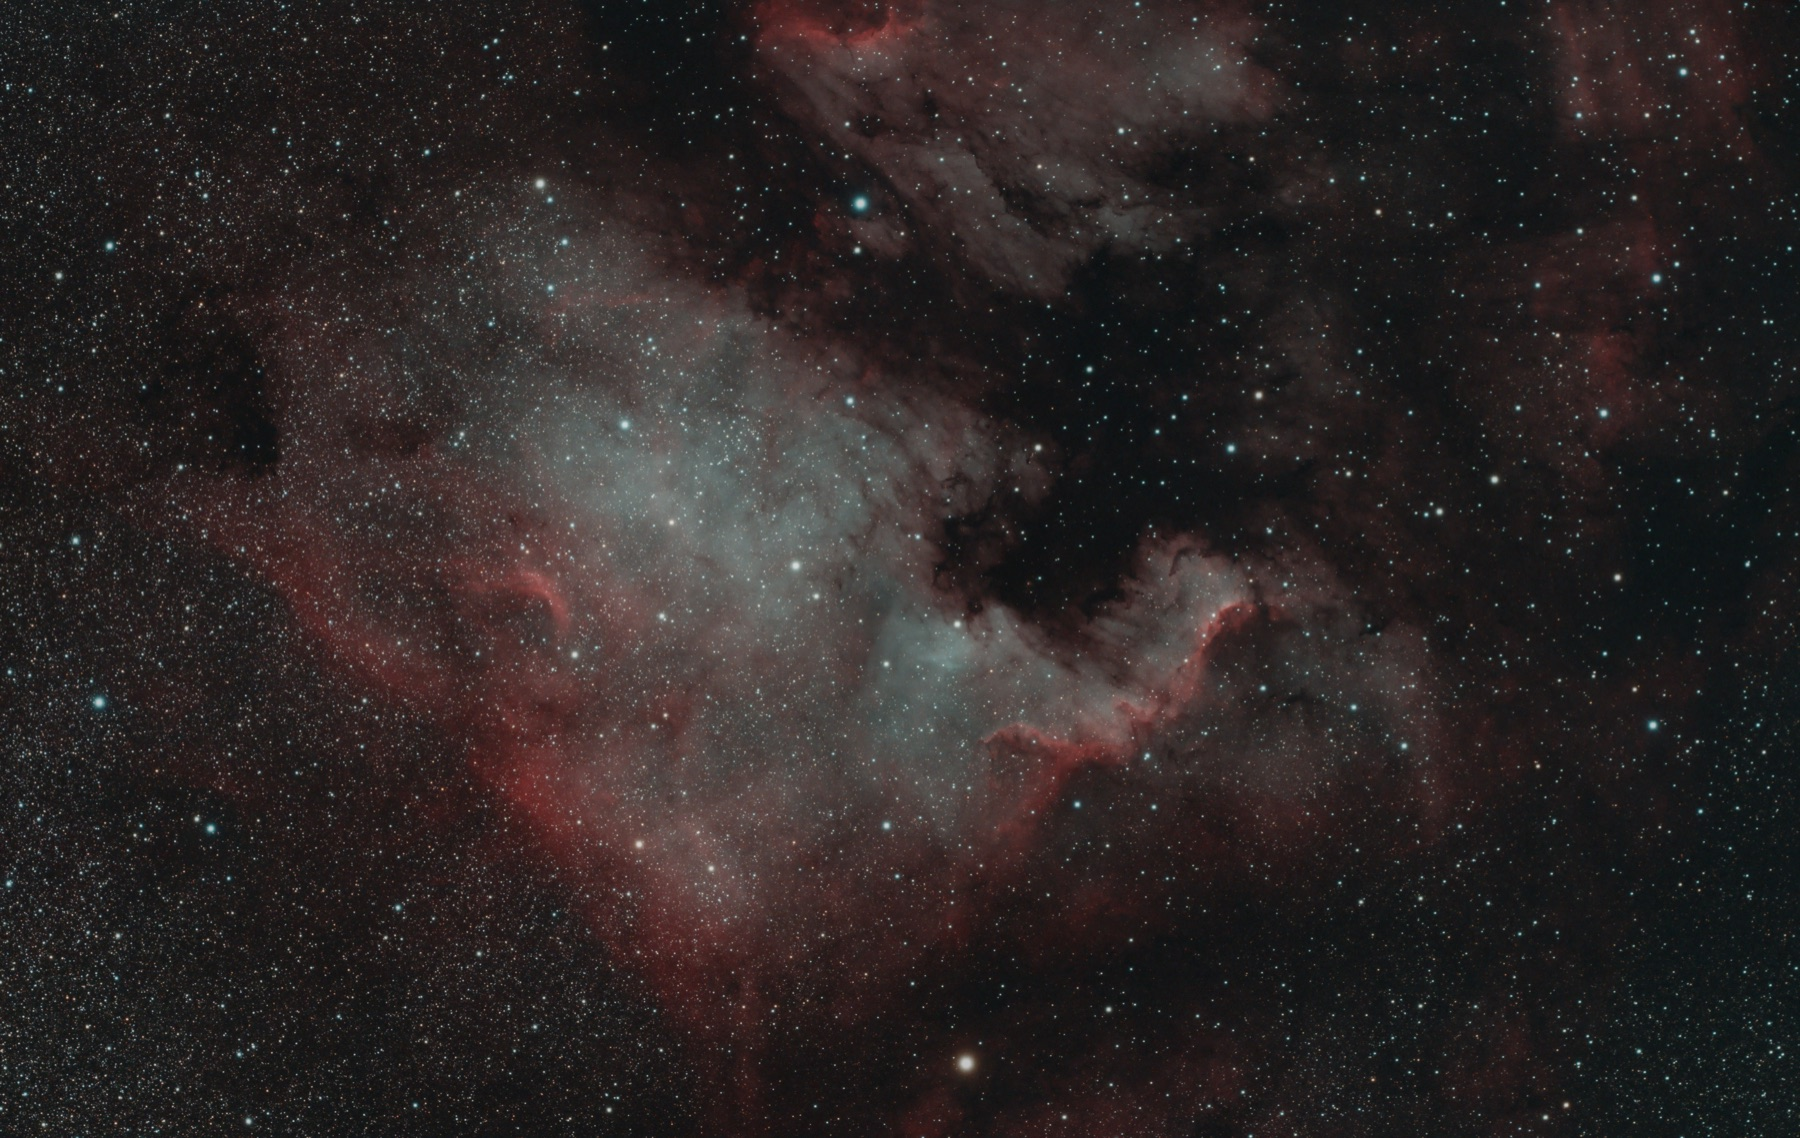
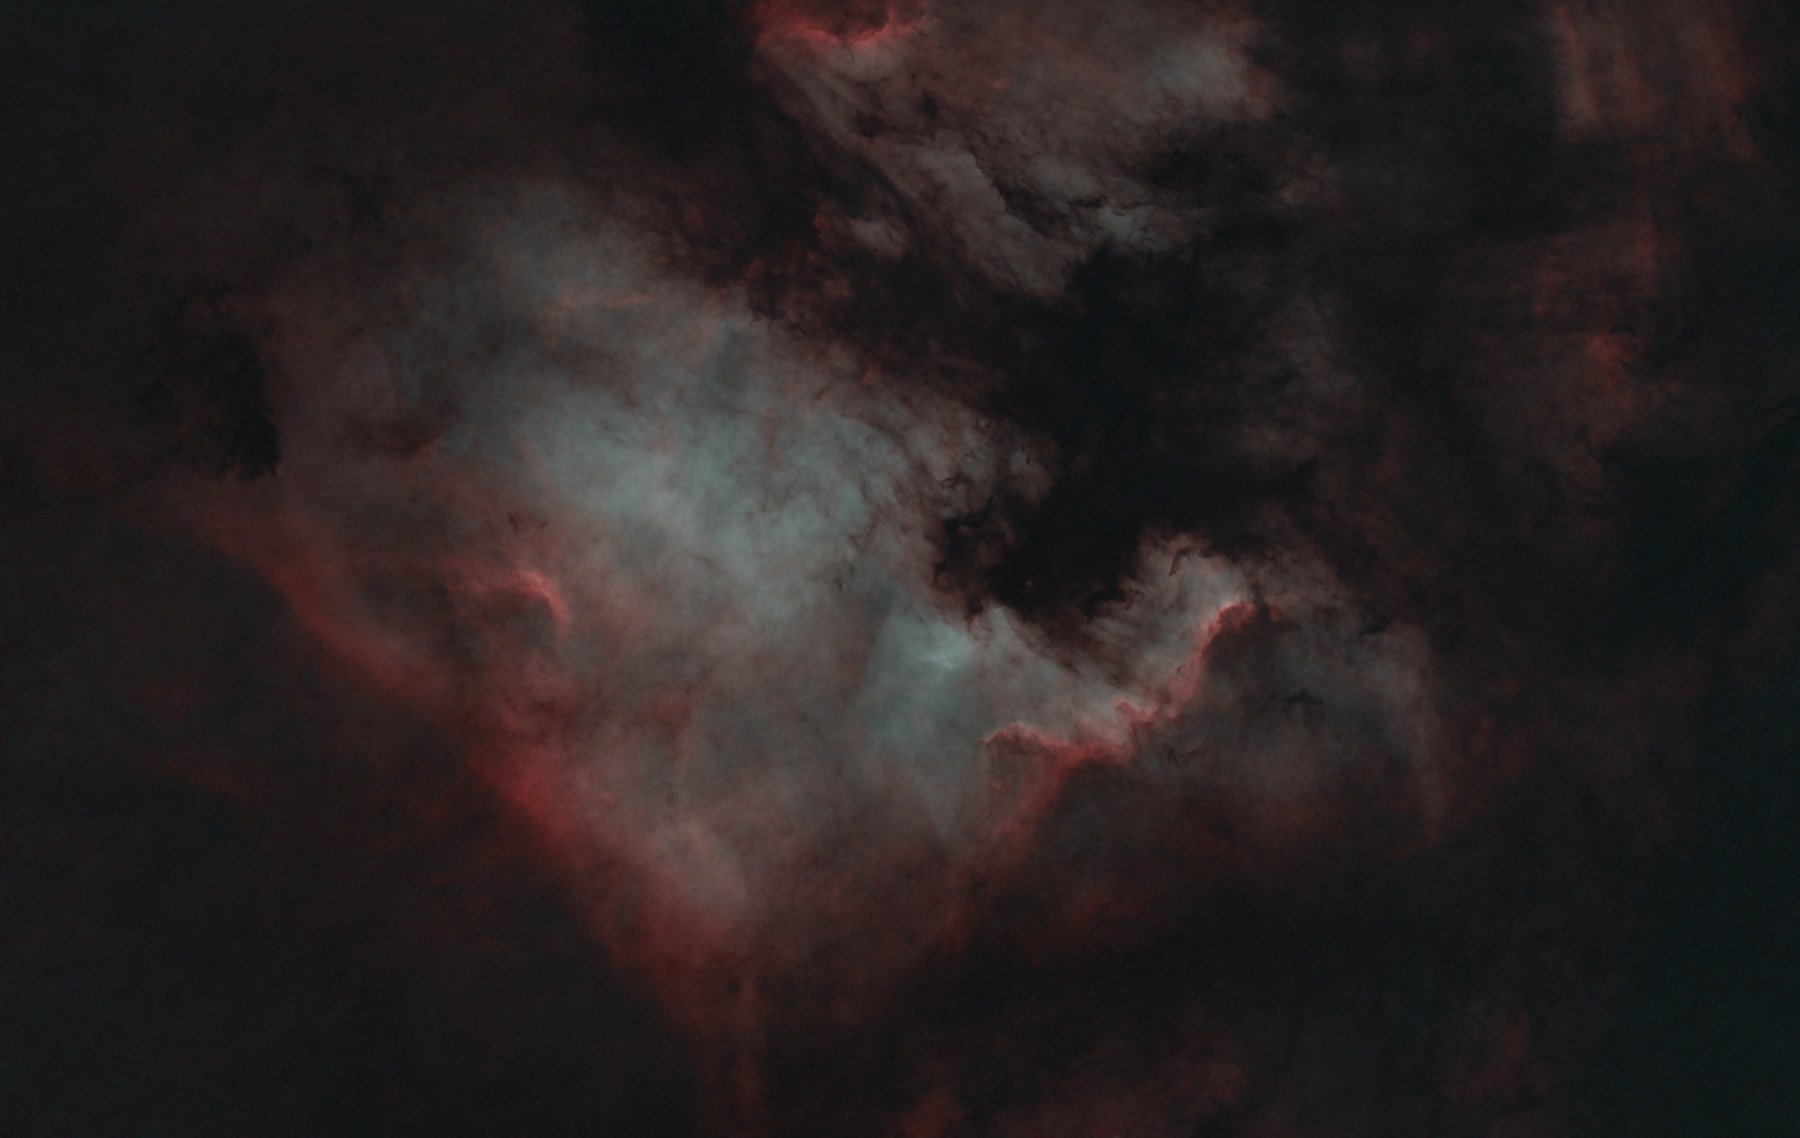
udpate readme

diff --git a/README.fr.md b/README.fr.md
@@ -26,15 +26,9 @@
 </p>
 
 <p align="center">
-  <img src="docs/assets/m31.jpg" width="900" alt="La galaxie d'Andromède, M 31, avec M 32 et M 110">
+  <img src="docs/assets/ngc7000.jpg" width="900" alt="La nébuleuse North America, NGC 7000, avec la nébuleuse du Pélican, IC 5070, sans étoiles">
   <br>
-  <sub>M 31, la galaxie d'Andromède, avec ses compagnes M 32 et M 110.</sub>
-</p>
-
-<p align="center">
-  <img src="docs/assets/ngc7000.jpg" width="900" alt="La nébuleuse North America, NGC 7000, avec la nébuleuse du Pélican, IC 5070">
-  <br>
-  <sub>NGC 7000, la nébuleuse North America, avec la nébuleuse du Pélican, IC 5070.</sub>
+  <sub>NGC 7000, la nébuleuse North America, avec la nébuleuse du Pélican, IC 5070 — sans étoiles.</sub>
 </p>
 
 ---

diff --git a/README.md b/README.md
@@ -26,15 +26,9 @@
 </p>
 
 <p align="center">
-  <img src="docs/assets/m31.jpg" width="900" alt="The Andromeda Galaxy, M 31, with M 32 and M 110">
+  <img src="docs/assets/ngc7000.jpg" width="900" alt="The North America Nebula, NGC 7000, with the Pelican Nebula, IC 5070, stars removed">
   <br>
-  <sub>M 31, the Andromeda Galaxy, with its companions M 32 and M 110.</sub>
-</p>
-
-<p align="center">
-  <img src="docs/assets/ngc7000.jpg" width="900" alt="The North America Nebula, NGC 7000, with the Pelican Nebula, IC 5070">
-  <br>
-  <sub>NGC 7000, the North America Nebula, with the Pelican Nebula, IC 5070.</sub>
+  <sub>NGC 7000, the North America Nebula, with the Pelican Nebula, IC 5070 — starless.</sub>
 </p>
 
 ---
